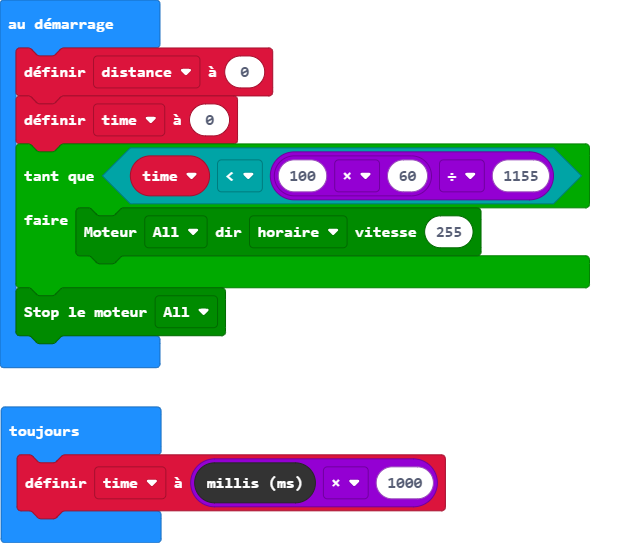
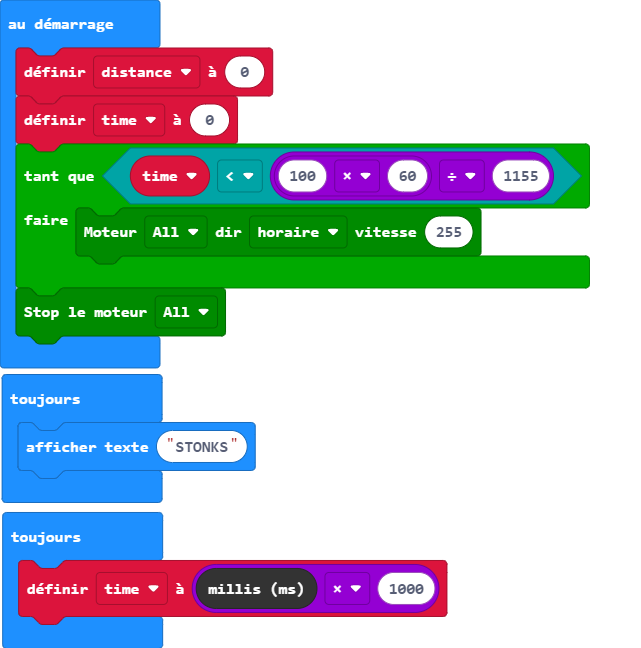
Mise à jour main.blocks, main.ts, main.py

diff --git a/main.ts b/main.ts
@@ -5,5 +5,8 @@ while (time < 100 * 60 / 1155) {
 }
 maqueen.motorStop(maqueen.Motors.All)
 basic.forever(function () {
+    basic.showString("STONKS")
+})
+basic.forever(function () {
     time = control.millis() * 1000
 })

diff --git a/main.py b/main.py
@@ -1,11 +1,11 @@
-speed = 0
-time = 0
-
-def on_forever():
-    global speed, time
-    speed = 255
-    while time < 100 * 60 * 1155:
-        maqueen.motor_run(maqueen.Motors.ALL, maqueen.Dir.CW, speed)
-        time = control.millis() * 1000
-    maqueen.motor_stop(maqueen.Motors.ALL)
-basic.forever(on_forever)
+let sprite = "STONKS"
+let distance = 0
+let time = 0
+while (time < 100 * 60 / 1155) {
+    maqueen.motorRun(maqueen.Motors.All, maqueen.Dir.CW, 255)
+}
+maqueen.motorStop(maqueen.Motors.All)
+basic.forever(function () {
+    time = control.millis() * 1000
+    sprite.scrollImage(1, 200)
+})
